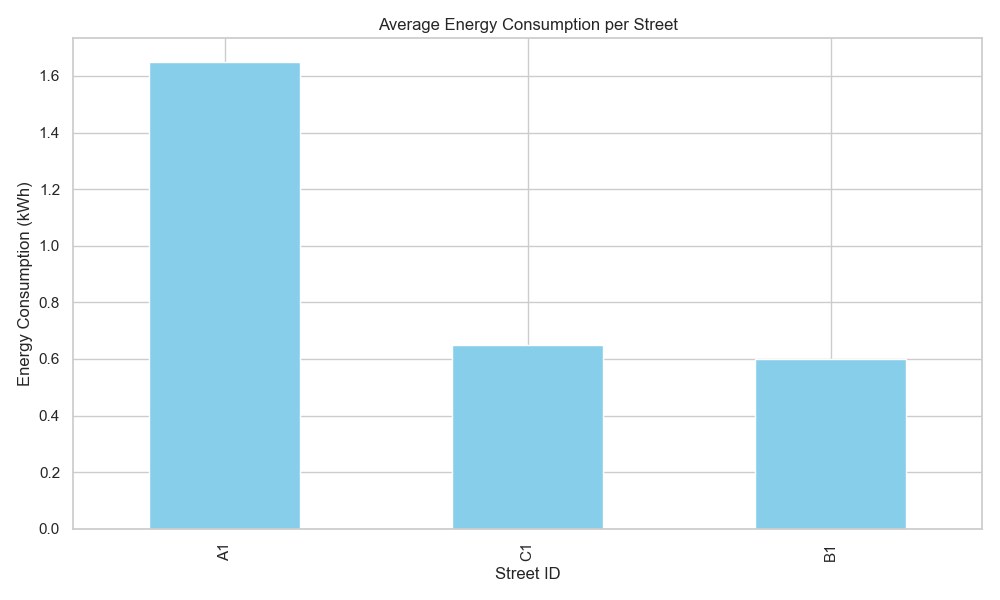
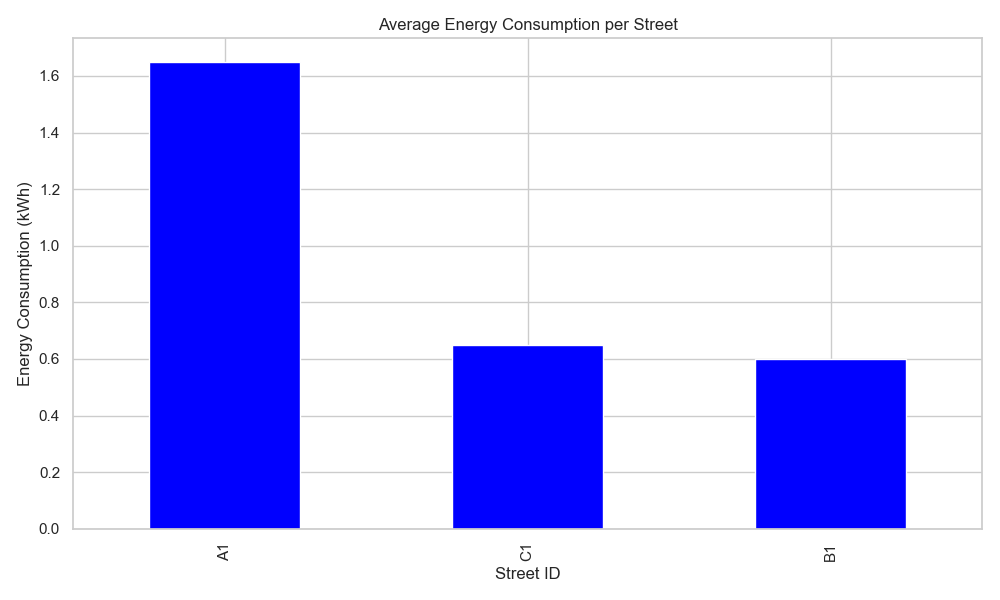
learning

Changed region(s): [[0.124, 0.09, 0.31, 0.9], [0.434, 0.57, 0.62, 0.9], [0.744, 0.6, 0.93, 0.9]]

diff --git a/Project/grade7/index.html b/Project/grade7/index.html
@@ -1,0 +1,18 @@
+<!DOCTYPE html>
+<html lang="en">
+  <head>
+    <meta charset="UTF-8" />
+    <meta name="viewport" content="width=device-width, initial-scale=1.0" />
+    <title>Document</title>
+    <style>
+      h1 {
+        font-size: 50px;
+        font-family: "Gill Sans", "Gill Sans MT", Calibri, "Trebuchet MS",
+          sans-serif;
+      }
+    </style>
+  </head>
+  <body style="background-color: burlywood">
+    <h1 style="color: brown; background-color: aqua">Sarthak</h1>
+  </body>
+</html>

diff --git a/Project/grade6/BlocksGame/4.NewGame.py b/Project/grade6/BlocksGame/4.NewGame.py
@@ -167,10 +167,10 @@ def main():
                 if not is_valid(current_pos, current_shape, grid):
                     current_pos[1] -= 1
                     lock_shape(current_pos, current_shape, current_color, locked)
-
+                    
                     grid, points = check_and_clear(locked)
                     score += points
-
+                    
                     draw_grid(screen, grid, current_shape, current_color, current_pos, score, high_score)
 
                     if score > high_score:

diff --git a/Project/grade7/session17.py b/Project/grade7/session17.py
@@ -29,7 +29,7 @@ print("Average Energy Consumption per Street:\n", avg_energy_per_street)
 
 # Plot Average Energy Consumption
 plt.figure(figsize=(10, 6))
-avg_energy_per_street.plot(kind="bar", color="skyblue")
+avg_energy_per_street.plot(kind="bar", color="blue")
 plt.title("Average Energy Consumption per Street")
 plt.ylabel("Energy Consumption (kWh)")
 plt.xlabel("Street ID")

diff --git a/Project/grade7/readme.md b/Project/grade7/readme.md
@@ -1,0 +1,173 @@
+## 📁 Step-by-Step Breakdown
+
+### Step 1: Import Required Libraries
+
+```py
+import pandas as pd
+import matplotlib.pyplot as plt
+import seaborn as sns
+import os
+```
+
+pandas: For data manipulation and analysis.
+
+matplotlib.pyplot: For creating static visualizations (bar charts, etc.).
+
+seaborn: Enhances matplotlib visuals with cleaner styles and additional features.
+
+os: For interacting with the file system (used here to create directories).
+
+### Step 2: Create Folder to Save Plots
+
+```py
+os.makedirs("plots", exist_ok=True)
+```
+
+- Creates a new folder named plots if it doesn't already exist.
+- Ensures that charts/images generated during analysis are saved in an organized location.
+
+### Step 3: Set the File Path
+
+```py
+file_path = r"C:\Users\user\OneDrive\Documents\street_energy_data.xls.xlsx"
+```
+
+- Specifies the absolute path to your Excel file containing street energy data.
+- Update this to your local file path as needed.
+- The r prefix means this is a raw string, so backslashes are treated literally.
+
+### Step 4: Load the Excel File
+
+```py
+try:
+df = pd.read_excel(file_path, engine='xlrd') # for .xls
+except:
+df = pd.read_excel(file_path, engine='openpyxl') # fallback for .xlsx
+```
+
+Tries to read the Excel file using the xlrd engine (used for .xls files).
+
+If that fails (e.g., it's an .xlsx file), it uses openpyxl instead.
+
+The result is a DataFrame called df containing the dataset.
+
+### Step 5: Set Style for Plots
+
+```py
+sns.set(style="whitegrid")
+```
+
+Applies a white grid background to all seaborn/matplotlib plots for better readability.
+
+#### ✅ TASK 1: Average Energy Consumption per Street
+
+```py
+avg_energy_per_street = df.groupby("Street ID")["Energy Consumption (kWh)"].mean().sort_values(ascending=False)
+```
+
+- groupby("Street ID"): Groups the data based on each unique street.
+
+- ["Energy Consumption (kWh)"].mean(): Calculates the average energy usage for each street.
+
+- sort_values(ascending=False): Sorts the results from highest to lowest average consumption.
+
+```py
+print("Average Energy Consumption per Street:\n", avg_energy_per_street)
+```
+
+- Prints the sorted list of average energy usage per street to the console.
+
+### 📊 Plot Average Energy Consumption
+
+```
+plt.figure(figsize=(10, 6))
+avg_energy_per_street.plot(kind="bar", color="skyblue")
+plt.title("Average Energy Consumption per Street")
+plt.ylabel("Energy Consumption (kWh)")
+plt.xlabel("Street ID")
+plt.tight_layout()
+plt.savefig("plots/avg_energy_per_street.png")
+plt.show()
+```
+
+- Creates a bar chart of the average energy usage per street.
+
+- Labels axes and title.
+
+- Saves the chart as a PNG in the plots directory.
+
+- Displays the chart on screen using plt.show().
+
+### ✅ TASK 2: Find Brightest and Darkest Streets
+
+```py
+avg_light = df.groupby("Street ID")["Light Intensity (Lux)"].mean()
+```
+
+- Groups the dataset by Street ID and calculates the average light intensity in Lux for each.
+
+```py
+brightest_street = avg_light.idxmax()
+darkest_street = avg_light.idxmin()
+```
+
+- idxmax(): Finds the street ID with the highest average brightness.
+
+- idxmin(): Finds the street ID with the lowest average brightness.
+
+```py
+print(f"Brightest Street: {brightest_street}")
+print(f"Darkest Street: {darkest_street}")
+```
+
+- Displays the brightest and darkest streets in the dataset.
+
+### ✅ TASK 3: Simulate Energy Saving with 20% Dimming
+
+```py
+df["Optimized Energy (kWh)"] = df["Energy Consumption (kWh)"] \* 0.8
+```
+
+- Creates a new column where each energy consumption value is reduced by 20%, simulating dimming lights.
+
+original_total = df["Energy Consumption (kWh)"].sum()
+optimized_total = df["Optimized Energy (kWh)"].sum()
+
+Calculates total energy consumed before and after optimization.
+
+print(f"\nOriginal Total Energy: {original_total:.2f} kWh")
+print(f"Optimized Total Energy (with 20% dimming): {optimized_total:.2f} kWh")
+
+Prints both totals for comparison, showing how much energy would be saved with the proposed optimization.
+
+📁 Output Files
+
+plots/avg_energy_per_street.png: Bar chart visualizing average energy consumption across streets.
+
+📌 Notes
+
+Ensure the Excel file path is valid on your system.
+
+Required Python libraries:
+
+pandas
+
+matplotlib
+
+seaborn
+
+openpyxl and/or xlrd
+
+You can install missing libraries using:
+
+pip install pandas matplotlib seaborn openpyxl xlrd
+
+✅ Summary
+
+This script helps city planners or energy analysts:
+
+Understand which streets use the most energy.
+
+Identify underlit or overlit areas.
+
+Simulate and evaluate the benefits of dimming streetlights.
